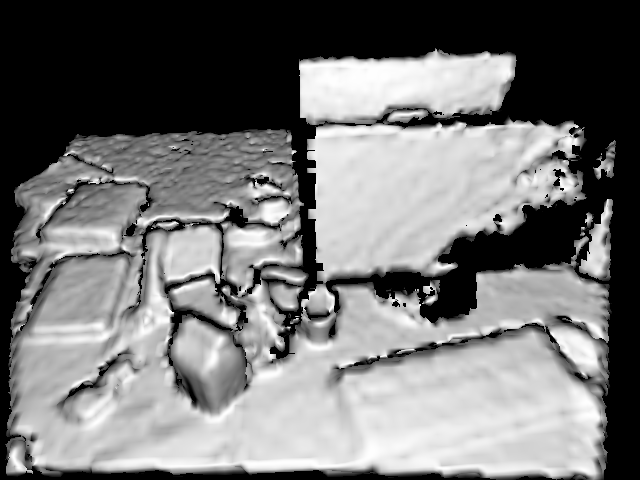
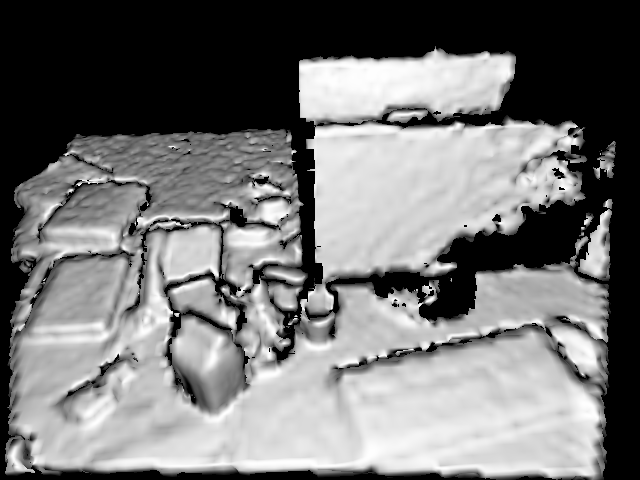
Added function for 3x3 noise modell filter

diff --git a/KinectFusion/main.cpp b/KinectFusion/main.cpp
@@ -133,6 +133,61 @@ void saveVolume(Volume &vol, std::string filenameOut, Matrix4f currentCameraPose
 	std::cout << "saveVolume finished in " << elapsedSecs << " seconds." << std::endl;
 }
 
+void depthFilterK3(cv::Mat& inputDepth, cv::Mat& outputDepth)
+{
+	float threshold = 0.021;
+	//Zero padding
+	cv::Mat inputPadded;
+	cv::copyMakeBorder(inputDepth, inputPadded, 1, 1, 1, 1, CV_HAL_BORDER_CONSTANT, 0);
+	//float sigma_l_pix = 0.8 + 0.035*(M_PI / 6) / ((M_PI / 2) - (M_PI / 6));
+	float sigma_l_pix = 0.8 + 0.035*0.5;
+	int no_changes = 0;
+
+#pragma omp parallel for
+	for (int u = 0; u < outputDepth.cols; u++)
+	{
+		for (int v = 0; v < outputDepth.rows; v++)
+		{
+			float numerator = 0;
+			float weights = 0;
+			float D_i = inputPadded.at<float>(v + 1, u + 1);
+			if ((D_i < 3) && (D_i > 0.4))
+			{
+				float sigma_l = sigma_l_pix * D_i*3.501e-3f;
+				float sigma_z = 0.0012f + 0.0019*pow((D_i - 0.4), 2) + (0.0001 / sqrt(D_i))*0.25;
+				for (int r = 0; r <= 2; r++)
+				{
+					for (int c = 0; c <= 2; c++)
+					{
+						float D_n = inputPadded.at<float>(v + r, u + c);
+						float delta_z = std::abs(D_i - D_n);
+						if ((delta_z < threshold) && (D_n > 0))
+						{
+							float delta_u = sqrt(pow(r - 1, 2) + pow(c - 1, 2));
+							float weight = exp(-(pow(delta_u, 2) / (2 * pow(sigma_l, 2)))
+								- (pow(delta_z, 2) / (2 * pow(sigma_z, 2))));
+							numerator += weight * D_n;
+							weights += weight;
+						}
+
+					}
+				}
+				if (weights > 0)
+				{
+					outputDepth.at<float>(v, u) = numerator / weights;
+				}
+				else
+				{
+					no_changes++;
+				}
+			}
+		}
+	}
+	std::cout << "The # of no changes in the filtering was: " << no_changes << std::endl;
+
+
+}
+
 void depthFilter(cv::Mat& inputDepth, cv::Mat& outputDepth)
 {
 	float threshold = 0.021;
@@ -205,7 +260,7 @@ void localTSDF3(Volume &vol, VirtualSensor &sensor, Matrix4f &cameraPose, float 
 	cv::Mat inputDepth(sensor.getDepthImageHeight(), sensor.getDepthImageWidth(), CV_32F, sensor.getDepth());
 	cv::Mat dst=inputDepth.clone();
 	//cv::bilateralFilter(src, dst, -1, 5, 5);
-	depthFilter(inputDepth, dst);
+	depthFilterK3(inputDepth, dst);
 
 #pragma omp parallel for
 	for (int x = 0; x < (int)vol.getDimX(); x++)
